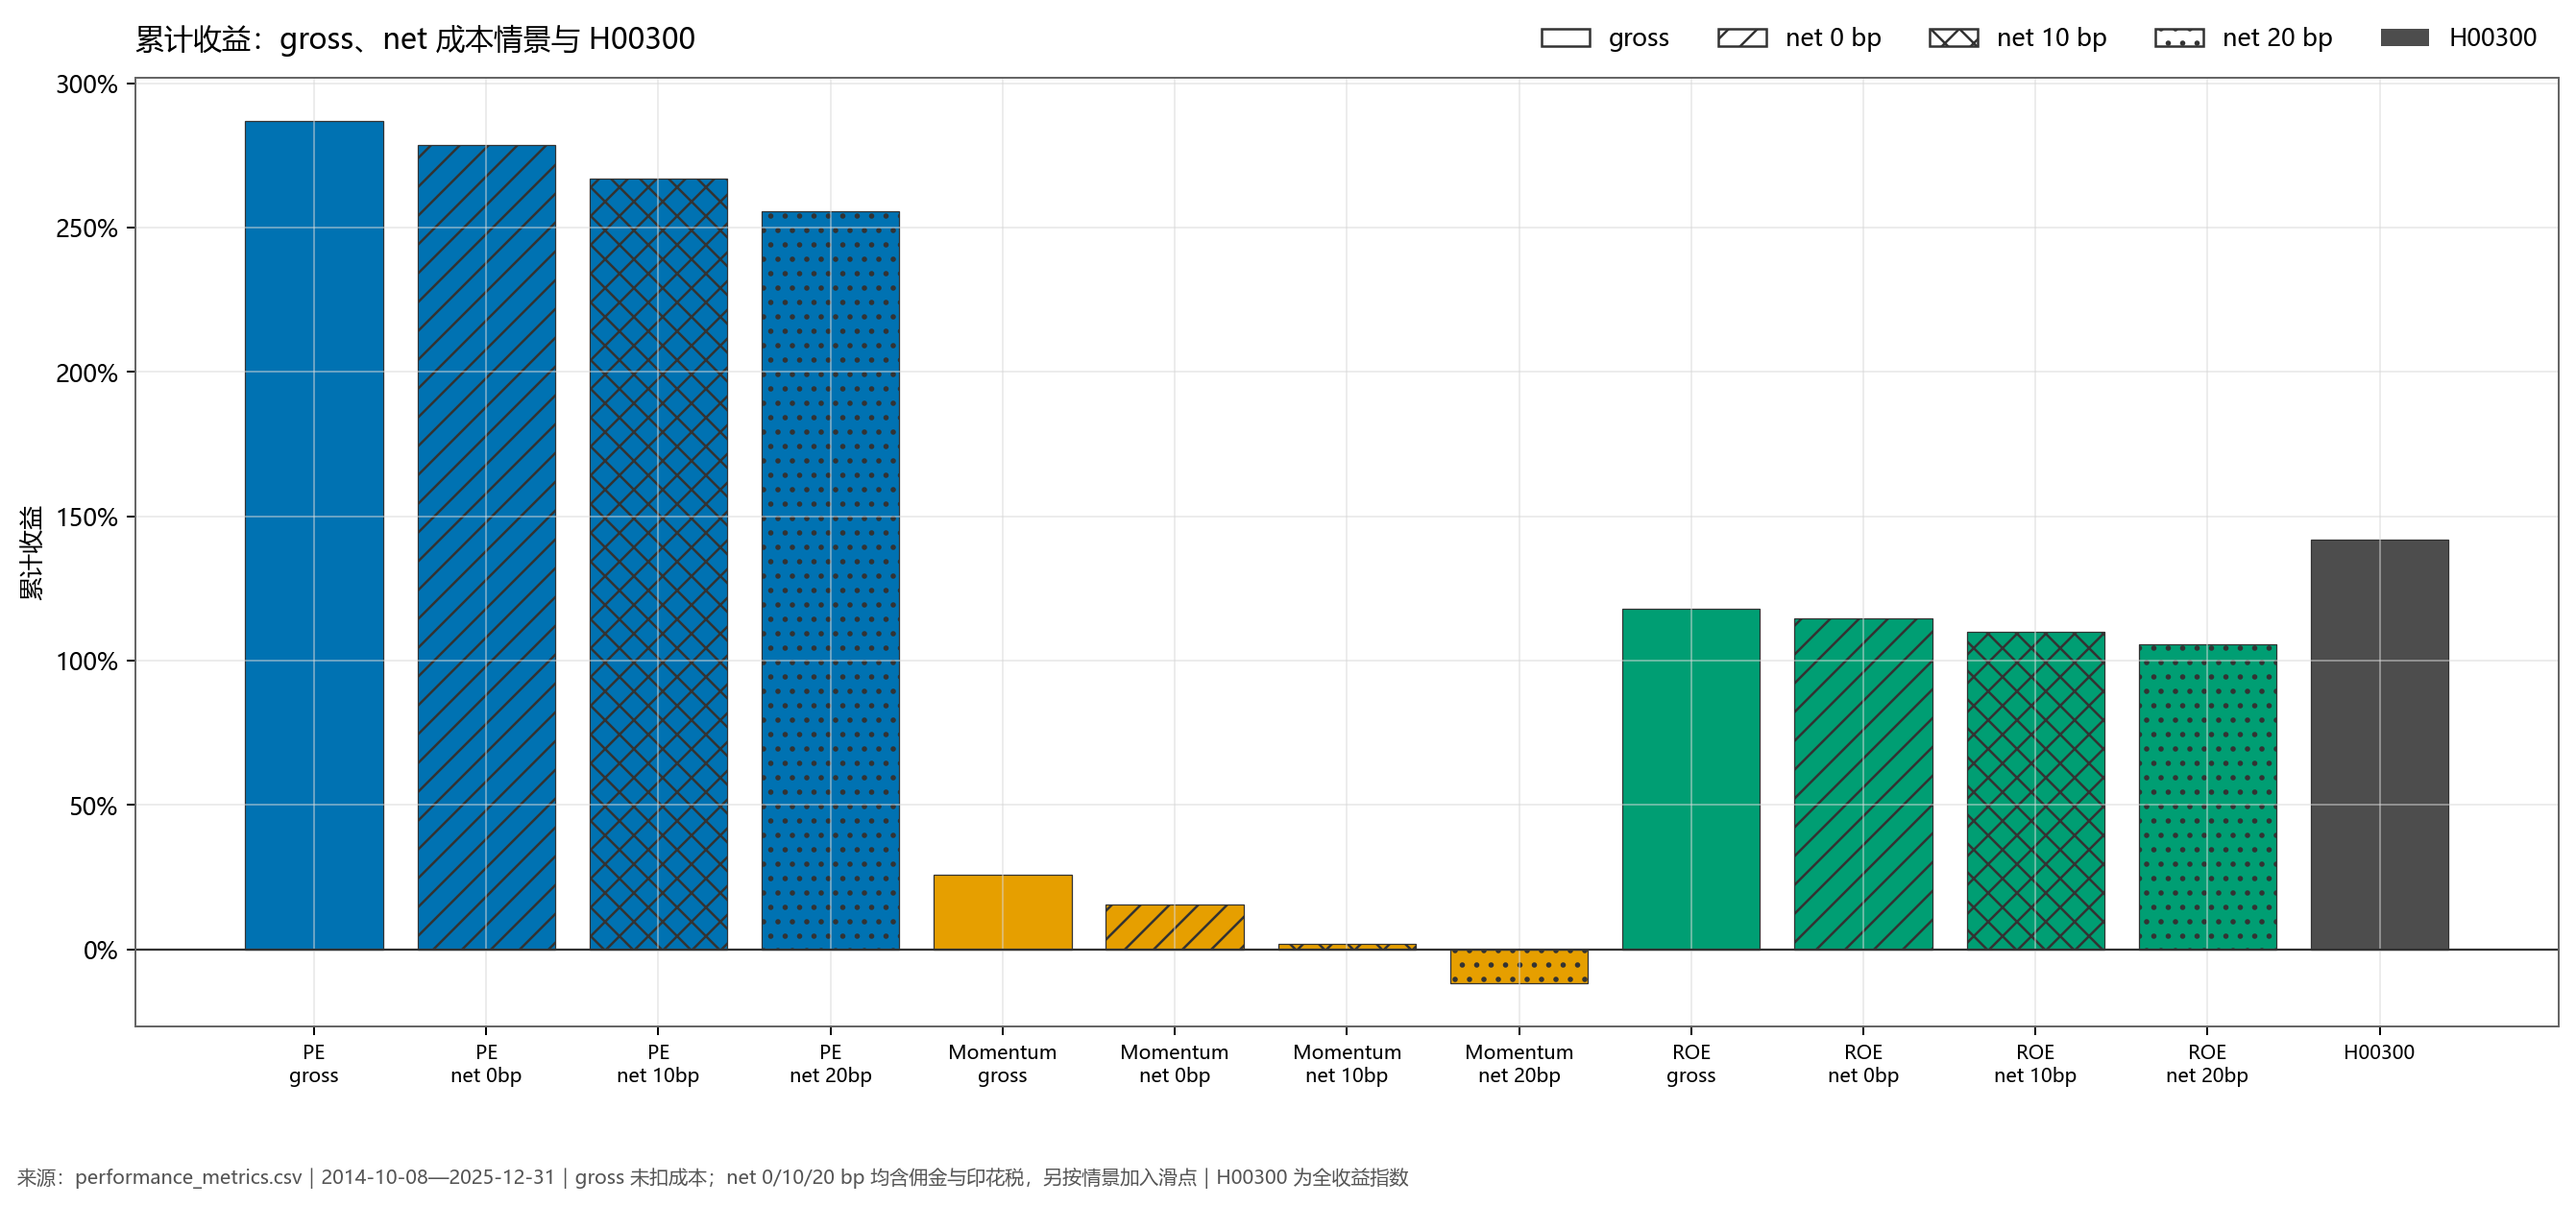
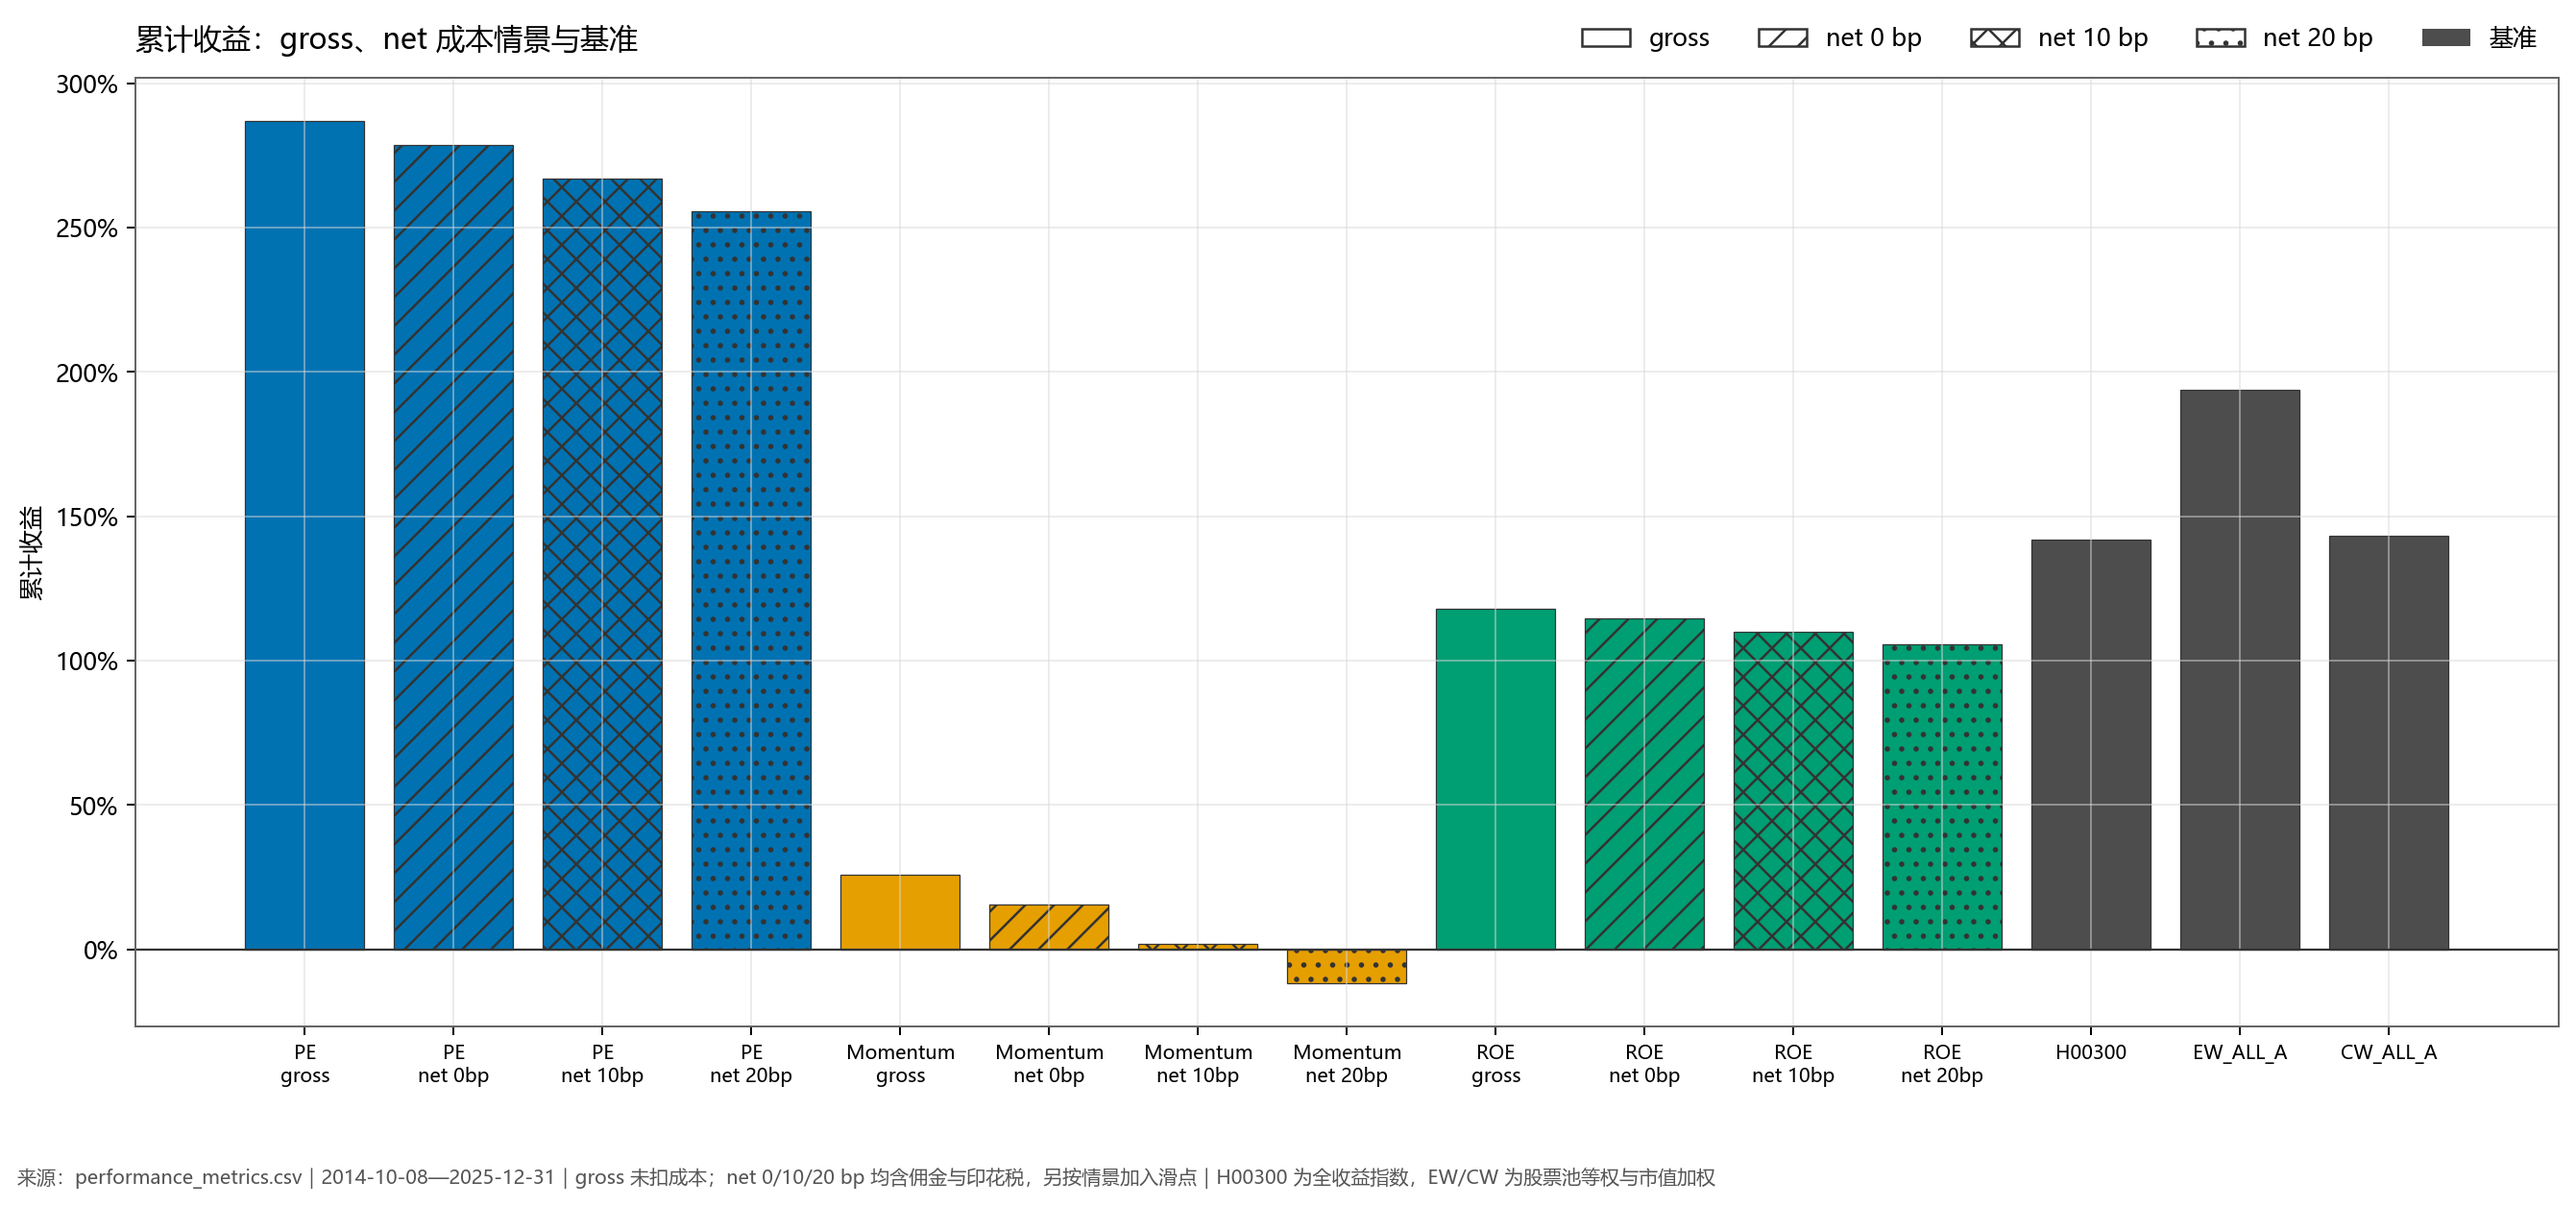
feat: chart the neutralization result and the wider benchmark set
Adds the IC comparison chart and puts the equal-weight all-A line next to the CSI 300 on the NAV chart, so the benchmark gap is visible rather than only tabulated.

diff --git a/src/visualization.py b/src/visualization.py
@@ -42,6 +42,7 @@ FIGURE_FILES = (
     "11_robustness_pe.png",
     "12_robustness_momentum.png",
     "13_robustness_roe.png",
+    "14_neutralization_ic.png",
 )
 
 
@@ -57,6 +58,8 @@ class FigureInputs:
     quality: pd.DataFrame
     quantiles: pd.DataFrame
     ic: pd.DataFrame
+    ic_all: pd.DataFrame
+    factor_summary: pd.DataFrame
     gross_daily: pd.DataFrame
     cost_daily: pd.DataFrame
     metrics: pd.DataFrame
@@ -87,10 +90,19 @@ def load_inputs(processed_dir: Path) -> FigureInputs:
     def read_csv(name: str) -> pd.DataFrame:
         return pd.read_csv(processed_dir / name, parse_dates=parse_csv_dates.get(name))
 
+    quantiles = read_csv("factor_quantile_returns.csv")
+    ic = read_csv("factor_ic_series.csv")
+    if "score_type" in quantiles.columns:
+        quantiles = quantiles.loc[quantiles["score_type"].eq("raw")].reset_index(drop=True)
+    if "score_type" in ic.columns:
+        ic = ic.loc[ic["score_type"].eq("raw")].reset_index(drop=True)
+
     return FigureInputs(
         quality=read_csv("factor_period_quality.csv"),
-        quantiles=read_csv("factor_quantile_returns.csv"),
-        ic=read_csv("factor_ic_series.csv"),
+        quantiles=quantiles,
+        ic=ic,
+        ic_all=read_csv("factor_ic_series.csv"),
+        factor_summary=read_csv("factor_test_summary.csv"),
         gross_daily=pd.read_parquet(processed_dir / "backtest_daily_returns.parquet"),
         cost_daily=pd.read_parquet(processed_dir / "backtest_net_daily_returns.parquet"),
         metrics=read_csv("performance_metrics.csv"),
@@ -298,13 +310,17 @@ def plot_gross_nav(inputs: FigureInputs, output: Path) -> None:
         ax.plot(item["trade_date"], item["nav"], color=FACTOR_COLORS[factor], lw=2.0, label=f"{FACTOR_LABELS[factor]} gross")
     benchmark = inputs.gross_daily.loc[inputs.gross_daily["factor"].eq("pe")].sort_values("trade_date")
     ax.plot(benchmark["trade_date"], benchmark["benchmark_nav"], color=BENCHMARK_COLOR, lw=2.1, label="H00300 全收益")
-    ax.set_title("三因子策略毛净值与 H00300 全收益指数")
+    if "ew_benchmark_return" in benchmark.columns:
+        equal_weight = (1 + benchmark["ew_benchmark_return"].fillna(0.0)).cumprod()
+        ax.plot(benchmark["trade_date"], equal_weight, color=BENCHMARK_COLOR, lw=1.6, linestyle="--",
+                label="等权全 A")
+    ax.set_title("三因子策略毛净值与基准")
     ax.set_ylabel("净值（初始值 = 1）")
     ax.set_xlabel("交易日")
     ax.set_ylim(bottom=0)
     _date_axis(ax)
     ax.legend(ncol=4, loc="upper left", frameon=False)
-    _footer(fig, "来源：backtest_daily_returns.parquet｜2014-10-08—2025-12-31｜策略：gross、未扣成本；H00300：全收益｜执行日策略从开盘开始，基准为完整日收益，盘中起点不完全一致")
+    _footer(fig, "来源：backtest_daily_returns.parquet｜2014-10-08—2025-12-31｜策略：gross、未扣成本；H00300 与等权全 A 为全收益口径｜执行日策略从开盘开始，基准为完整日收益")
     fig.tight_layout(rect=(0, 0.06, 1, 1))
     _save(fig, output)
 
@@ -335,7 +351,9 @@ def plot_gross_vs_net(inputs: FigureInputs, output: Path) -> None:
 
 def plot_drawdowns(inputs: FigureInputs, output: Path) -> None:
     fig, axes = plt.subplots(3, 1, figsize=(13, 9.5), sharex=True)
-    benchmark = inputs.drawdowns.loc[inputs.drawdowns["series_type"].eq("benchmark")].sort_values("trade_date")
+    benchmark = inputs.drawdowns.loc[
+        inputs.drawdowns["series_type"].eq("benchmark") & inputs.drawdowns["factor"].eq("H00300")
+    ].sort_values("trade_date")
     for ax, factor in zip(axes, FACTORS):
         gross = inputs.drawdowns.loc[
             inputs.drawdowns["series_type"].eq("gross") & inputs.drawdowns["factor"].eq(factor)
@@ -401,8 +419,43 @@ def plot_monthly_returns(inputs: FigureInputs, output: Path) -> None:
 
 def _metric_order(metrics: pd.DataFrame) -> pd.DataFrame:
     ordered_ids = [f"{factor}_{kind}" for factor in FACTORS for kind in ("gross", "net_0bp", "net_10bp", "net_20bp")]
-    ordered_ids.append("h00300_benchmark")
-    return metrics.set_index("series_id").loc[ordered_ids].reset_index()
+    ordered_ids.extend(["h00300_benchmark", "ew_all_a_benchmark", "cw_all_a_benchmark"])
+    present = [series_id for series_id in ordered_ids if series_id in set(metrics["series_id"])]
+    remaining = [series_id for series_id in metrics["series_id"] if series_id not in set(present)]
+    return metrics.set_index("series_id").loc[present + remaining].reset_index()
+
+
+def plot_neutralization(inputs: FigureInputs, output: Path) -> None:
+    """Mean Rank IC before and after neutralization, with the t statistic annotated."""
+    order = (("raw", "原始分数"), ("raw_neutral_sample", "同子样本"), ("neutral", "行业+市值中性化"))
+    fig, axes = plt.subplots(1, 3, figsize=(17, 5.0))
+    for axis, factor in zip(axes, FACTORS):
+        labels, values, t_values = [], [], []
+        for score_type, label in order:
+            row = inputs.factor_summary.loc[
+                inputs.factor_summary["factor"].eq(factor) & inputs.factor_summary["score_type"].eq(score_type)
+            ]
+            if row.empty:
+                continue
+            labels.append(label)
+            values.append(float(row["ic_mean"].iloc[0]))
+            t_value = row["ic_t"].iloc[0]
+            t_values.append(float(t_value) if pd.notna(t_value) else np.nan)
+        positions = np.arange(len(values))
+        axis.bar(positions, values, color=FACTOR_COLORS[factor], alpha=0.85, width=0.6)
+        axis.axhline(0, color=BENCHMARK_COLOR, linewidth=0.9)
+        axis.set_xticks(positions, labels, fontsize=9)
+        axis.set_title(f"{FACTOR_LABELS[factor]} 平均 Rank IC")
+        axis.set_ylabel("IC 均值")
+        axis.grid(axis="y", alpha=0.25)
+        for position, value, t_value in zip(positions, values, t_values):
+            text = f"{value:.4f}\nt={t_value:.1f}" if np.isfinite(t_value) else f"{value:.4f}"
+            axis.annotate(text, (position, value), textcoords="offset points",
+                          xytext=(0, 6 if value >= 0 else -18), ha="center", fontsize=8)
+    fig.suptitle("中性化前后：平均 Rank IC 与 t 值", fontsize=15)
+    _footer(fig, "来源：factor_test_summary.csv｜2014-09-30—2025-11-28｜同子样本 = 在与中性化相同的样本上重算原始 IC｜IC 为月度 Spearman 相关")
+    fig.tight_layout(rect=(0, 0.05, 1, 0.92))
+    _save(fig, output)
 
 
 def plot_metric(inputs: FigureInputs, metric: str, title: str, ylabel: str, output: Path, percent: bool) -> None:
@@ -413,7 +466,7 @@ def plot_metric(inputs: FigureInputs, metric: str, title: str, ylabel: str, outp
     for row in data.itertuples(index=False):
         if row.series_type == "benchmark":
             hatches.append("")
-            labels.append("H00300")
+            labels.append(str(row.factor))
         elif row.series_type == "gross":
             hatches.append("")
             labels.append(f"{FACTOR_LABELS[row.factor]}\ngross")
@@ -436,9 +489,9 @@ def plot_metric(inputs: FigureInputs, metric: str, title: str, ylabel: str, outp
         Patch(facecolor="#FFFFFF", edgecolor="#333333", hatch="//", label="net 0 bp"),
         Patch(facecolor="#FFFFFF", edgecolor="#333333", hatch="xx", label="net 10 bp"),
         Patch(facecolor="#FFFFFF", edgecolor="#333333", hatch="..", label="net 20 bp"),
-        Patch(facecolor=BENCHMARK_COLOR, label="H00300"),
+        Patch(facecolor=BENCHMARK_COLOR, label="基准"),
     ], ncol=5, loc="lower right", bbox_to_anchor=(1.0, 1.005), frameon=False)
-    _footer(fig, "来源：performance_metrics.csv｜2014-10-08—2025-12-31｜gross 未扣成本；net 0/10/20 bp 均含佣金与印花税，另按情景加入滑点｜H00300 为全收益指数")
+    _footer(fig, "来源：performance_metrics.csv｜2014-10-08—2025-12-31｜gross 未扣成本；net 0/10/20 bp 均含佣金与印花税，另按情景加入滑点｜H00300 为全收益指数，EW/CW 为股票池等权与市值加权")
     fig.tight_layout(rect=(0, 0.07, 1, 1))
     _save(fig, output)
 
@@ -503,7 +556,7 @@ def build_figure_index() -> str:
         ("02_factor_pe.png", "PE 的五分位、Q5-Q1 与 Rank IC 如何变化？", "factor_quantile_returns.csv: quantile, cumulative_group_return, q_high_minus_q_low, cumulative_q_high_minus_q_low; factor_ic_series.csv: rank_ic", "分组未来收益，非策略 gross/net；成本不适用", "2014-09-30—2025-11-28", "每期 Q5-Q1 只计算一次，累计值在同期五个分位行中完全一致。"),
         ("03_factor_momentum.png", "Momentum 的五分位、Q5-Q1 与 Rank IC 如何变化？", "同 02，factor=momentum", "分组未来收益，非策略 gross/net；成本不适用", "2015-03-31—2025-11-28", "前 6 个信号期无完整回看历史，因此不填造结果。"),
         ("04_factor_roe.png", "ROE 的五分位、Q5-Q1 与 Rank IC 如何变化？", "同 02，factor=roe", "分组未来收益，非策略 gross/net；成本不适用", "2014-09-30—2025-11-28", "分组结果不代表开盘可成交策略。"),
-        ("05_gross_nav_vs_benchmark.png", "三因子毛净值相对 H00300 如何变化？", "backtest_daily_returns.parquet: trade_date, factor, nav, benchmark_nav", "策略 gross；H00300 全收益；未扣策略成本", "2014-10-08—2025-12-31", "策略执行日从开盘开始，基准使用完整日收益，盘中起点不完全一致。"),
+        ("05_gross_nav_vs_benchmark.png", "三因子毛净值相对基准如何变化？", "backtest_daily_returns.parquet: trade_date, factor, nav, benchmark_nav, ew_benchmark_return", "策略 gross；H00300 与等权全 A 全收益；未扣策略成本", "2014-10-08—2025-12-31", "策略执行日从开盘开始，基准使用完整日收益，盘中起点不完全一致。"),
         ("06_gross_vs_net.png", "交易成本情景如何改变各因子净值？", "backtest_daily_returns.parquet: nav; backtest_net_daily_returns.parquet: net_nav, slippage_bp", "gross 与 net 0/10/20 bp；0 bp 仍含佣金和印花税", "2014-10-08—2025-12-31", "最低佣金与盘口冲击未纳入；滑点为研究假设。"),
         ("07_drawdowns.png", "各毛收益策略与 H00300 的历史回撤如何比较？", "performance_drawdowns.parquet: series_type, factor, trade_date, drawdown", "策略 gross；H00300 全收益；不展示 net", "2014-10-08—2025-12-31", "策略与基准执行日盘中起点不完全一致。"),
         ("08_monthly_returns.png", "三因子毛收益策略每月表现如何？", "performance_monthly_returns.csv: series_type, factor, month, monthly_return", "仅 gross；未扣成本", "2014-10—2025-12", "统一色阶保留极端月份；缺失格显示为破折号。"),
@@ -516,6 +569,7 @@ def build_figure_index() -> str:
         ("11_robustness_pe.png", "PE 净累计收益对选股比例、调仓频率和成本是否敏感？", "robustness_metrics.csv: selection_quantile, rebalance_frequency, slippage_bp, net_cumulative_return", "net 0/10/20 bp", "2014-10-08—2025-12-31", "边界同分全部保留；不选择最佳参数。"),
         ("12_robustness_momentum.png", "Momentum 净累计收益对参数是否敏感？", "同 11，factor=momentum", "net 0/10/20 bp", "2014-10-08—2025-12-31", "部分参数下收益方向反转；不选择最佳参数。"),
         ("13_robustness_roe.png", "ROE 净累计收益对参数是否敏感？", "同 11，factor=roe", "net 0/10/20 bp", "2014-10-08—2025-12-31", "边界同分全部保留；不选择最佳参数。"),
+        ("14_neutralization_ic.png", "中性化前后平均 Rank IC 与 t 值如何变化？", "factor_test_summary.csv: score_type, ic_mean, ic_t", "分组未来收益，非策略 gross/net；成本不适用", "2014-09-30—2025-11-28", "同子样本列用于排除样本变化的影响。"),
     ]
     lines = [
         "# 研究图表索引", "",
@@ -554,11 +608,11 @@ def run(config: VisualizationConfig) -> tuple[Path, ...]:
     plot_drawdowns(inputs, config.figure_dir / FIGURE_FILES[6])
     plot_monthly_returns(inputs, config.figure_dir / FIGURE_FILES[7])
     metric_specs = (
-        ("cumulative_return", "累计收益：gross、net 成本情景与 H00300", "累计收益", True),
-        ("annualized_return", "年化收益：gross、net 成本情景与 H00300", "年化收益", True),
-        ("annualized_volatility", "年化波动率：gross、net 成本情景与 H00300", "年化波动率", True),
-        ("max_drawdown", "最大回撤：gross、net 成本情景与 H00300", "最大回撤", True),
-        ("sharpe_ratio", "Sharpe Ratio：gross、net 成本情景与 H00300", "Sharpe Ratio", False),
+        ("cumulative_return", "累计收益：gross、net 成本情景与基准", "累计收益", True),
+        ("annualized_return", "年化收益：gross、net 成本情景与基准", "年化收益", True),
+        ("annualized_volatility", "年化波动率：gross、net 成本情景与基准", "年化波动率", True),
+        ("max_drawdown", "最大回撤：gross、net 成本情景与基准", "最大回撤", True),
+        ("sharpe_ratio", "Sharpe Ratio：gross、net 成本情景与基准", "Sharpe Ratio", False),
     )
     for spec, filename in zip(metric_specs, FIGURE_FILES[8:13]):
         metric, title, ylabel, percent = spec
@@ -567,6 +621,7 @@ def run(config: VisualizationConfig) -> tuple[Path, ...]:
     plot_robustness(inputs, "pe", config.figure_dir / FIGURE_FILES[14])
     plot_robustness(inputs, "momentum", config.figure_dir / FIGURE_FILES[15])
     plot_robustness(inputs, "roe", config.figure_dir / FIGURE_FILES[16])
+    plot_neutralization(inputs, config.figure_dir / FIGURE_FILES[17])
     config.index_path.parent.mkdir(parents=True, exist_ok=True)
     config.index_path.write_text(build_figure_index(), encoding="utf-8")
     outputs = tuple(config.figure_dir / name for name in FIGURE_FILES)

diff --git a/tests/test_visualization.py b/tests/test_visualization.py
@@ -48,7 +48,7 @@ def test_q5_minus_q1_rejects_an_incorrect_cumulative_rule() -> None:
 
 
 def test_figure_manifest_and_index_cover_every_requested_chart() -> None:
-    assert len(FIGURE_FILES) == 17
+    assert len(FIGURE_FILES) == 18
     assert len(set(FIGURE_FILES)) == len(FIGURE_FILES)
     index = build_figure_index()
     for filename in FIGURE_FILES:
